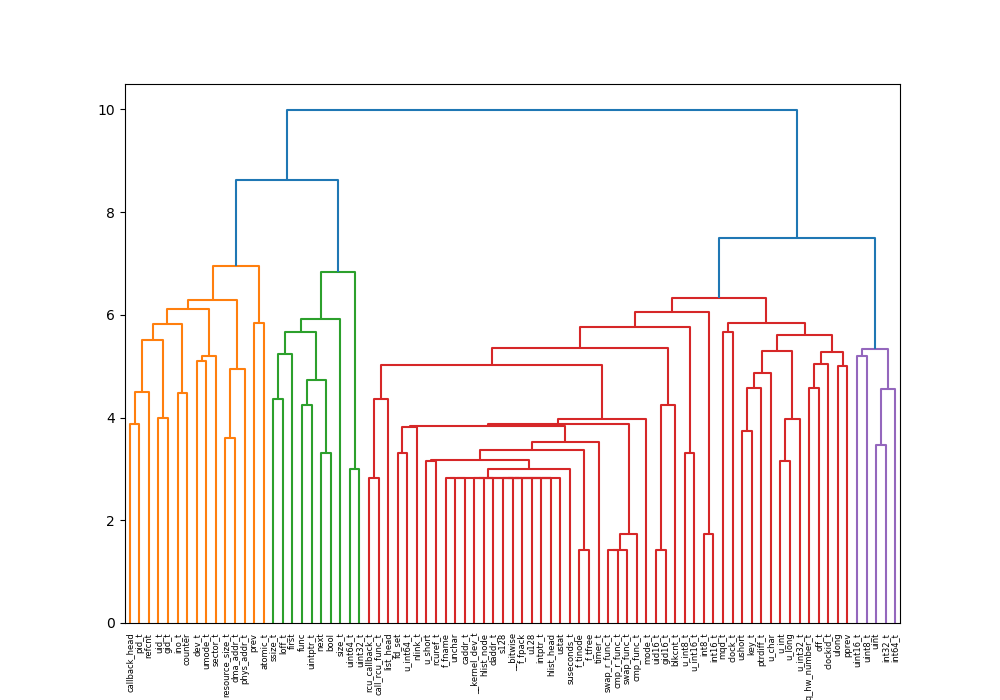
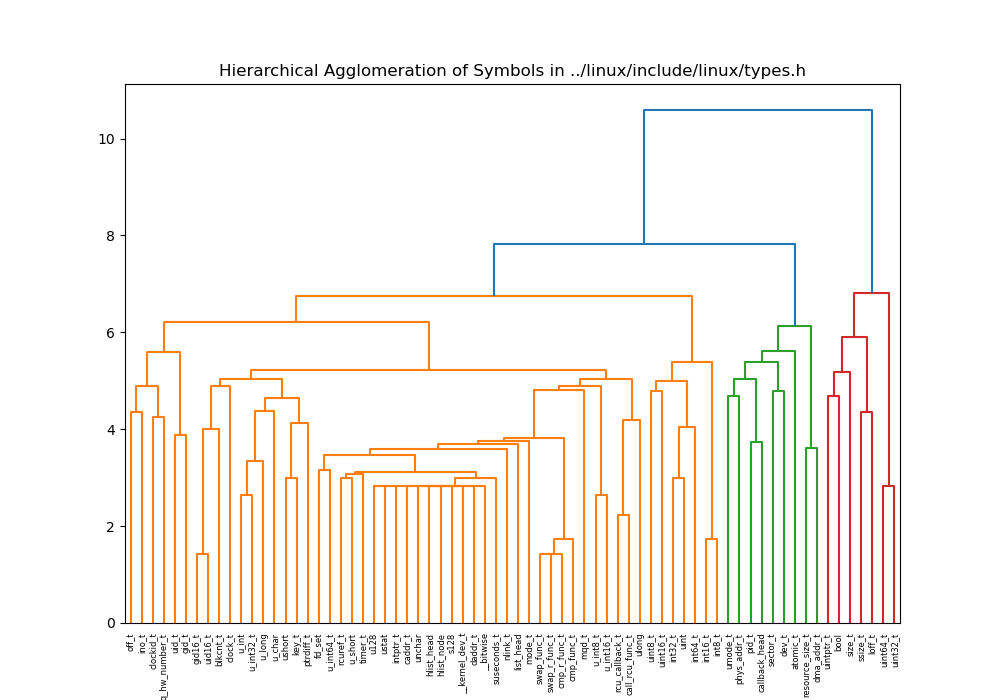
fixed recursing too deep into structs

diff --git a/lib/graph_utils.py b/lib/graph_utils.py
@@ -33,6 +33,9 @@ def extract_symbols_from_file(filename: Path, flags: List[str], header = False) 
             if node.kind == CursorKind.FUNCTION_DECL:
                 # Stops us from going into the function body because we don't care for headers
                 return
+            if node.kind == CursorKind.STRUCT_DECL:
+                # Stops us from going into the struct body because we don't care for headers
+                return
 
             for child in node.get_children():
                 visit_node(child, 1)
